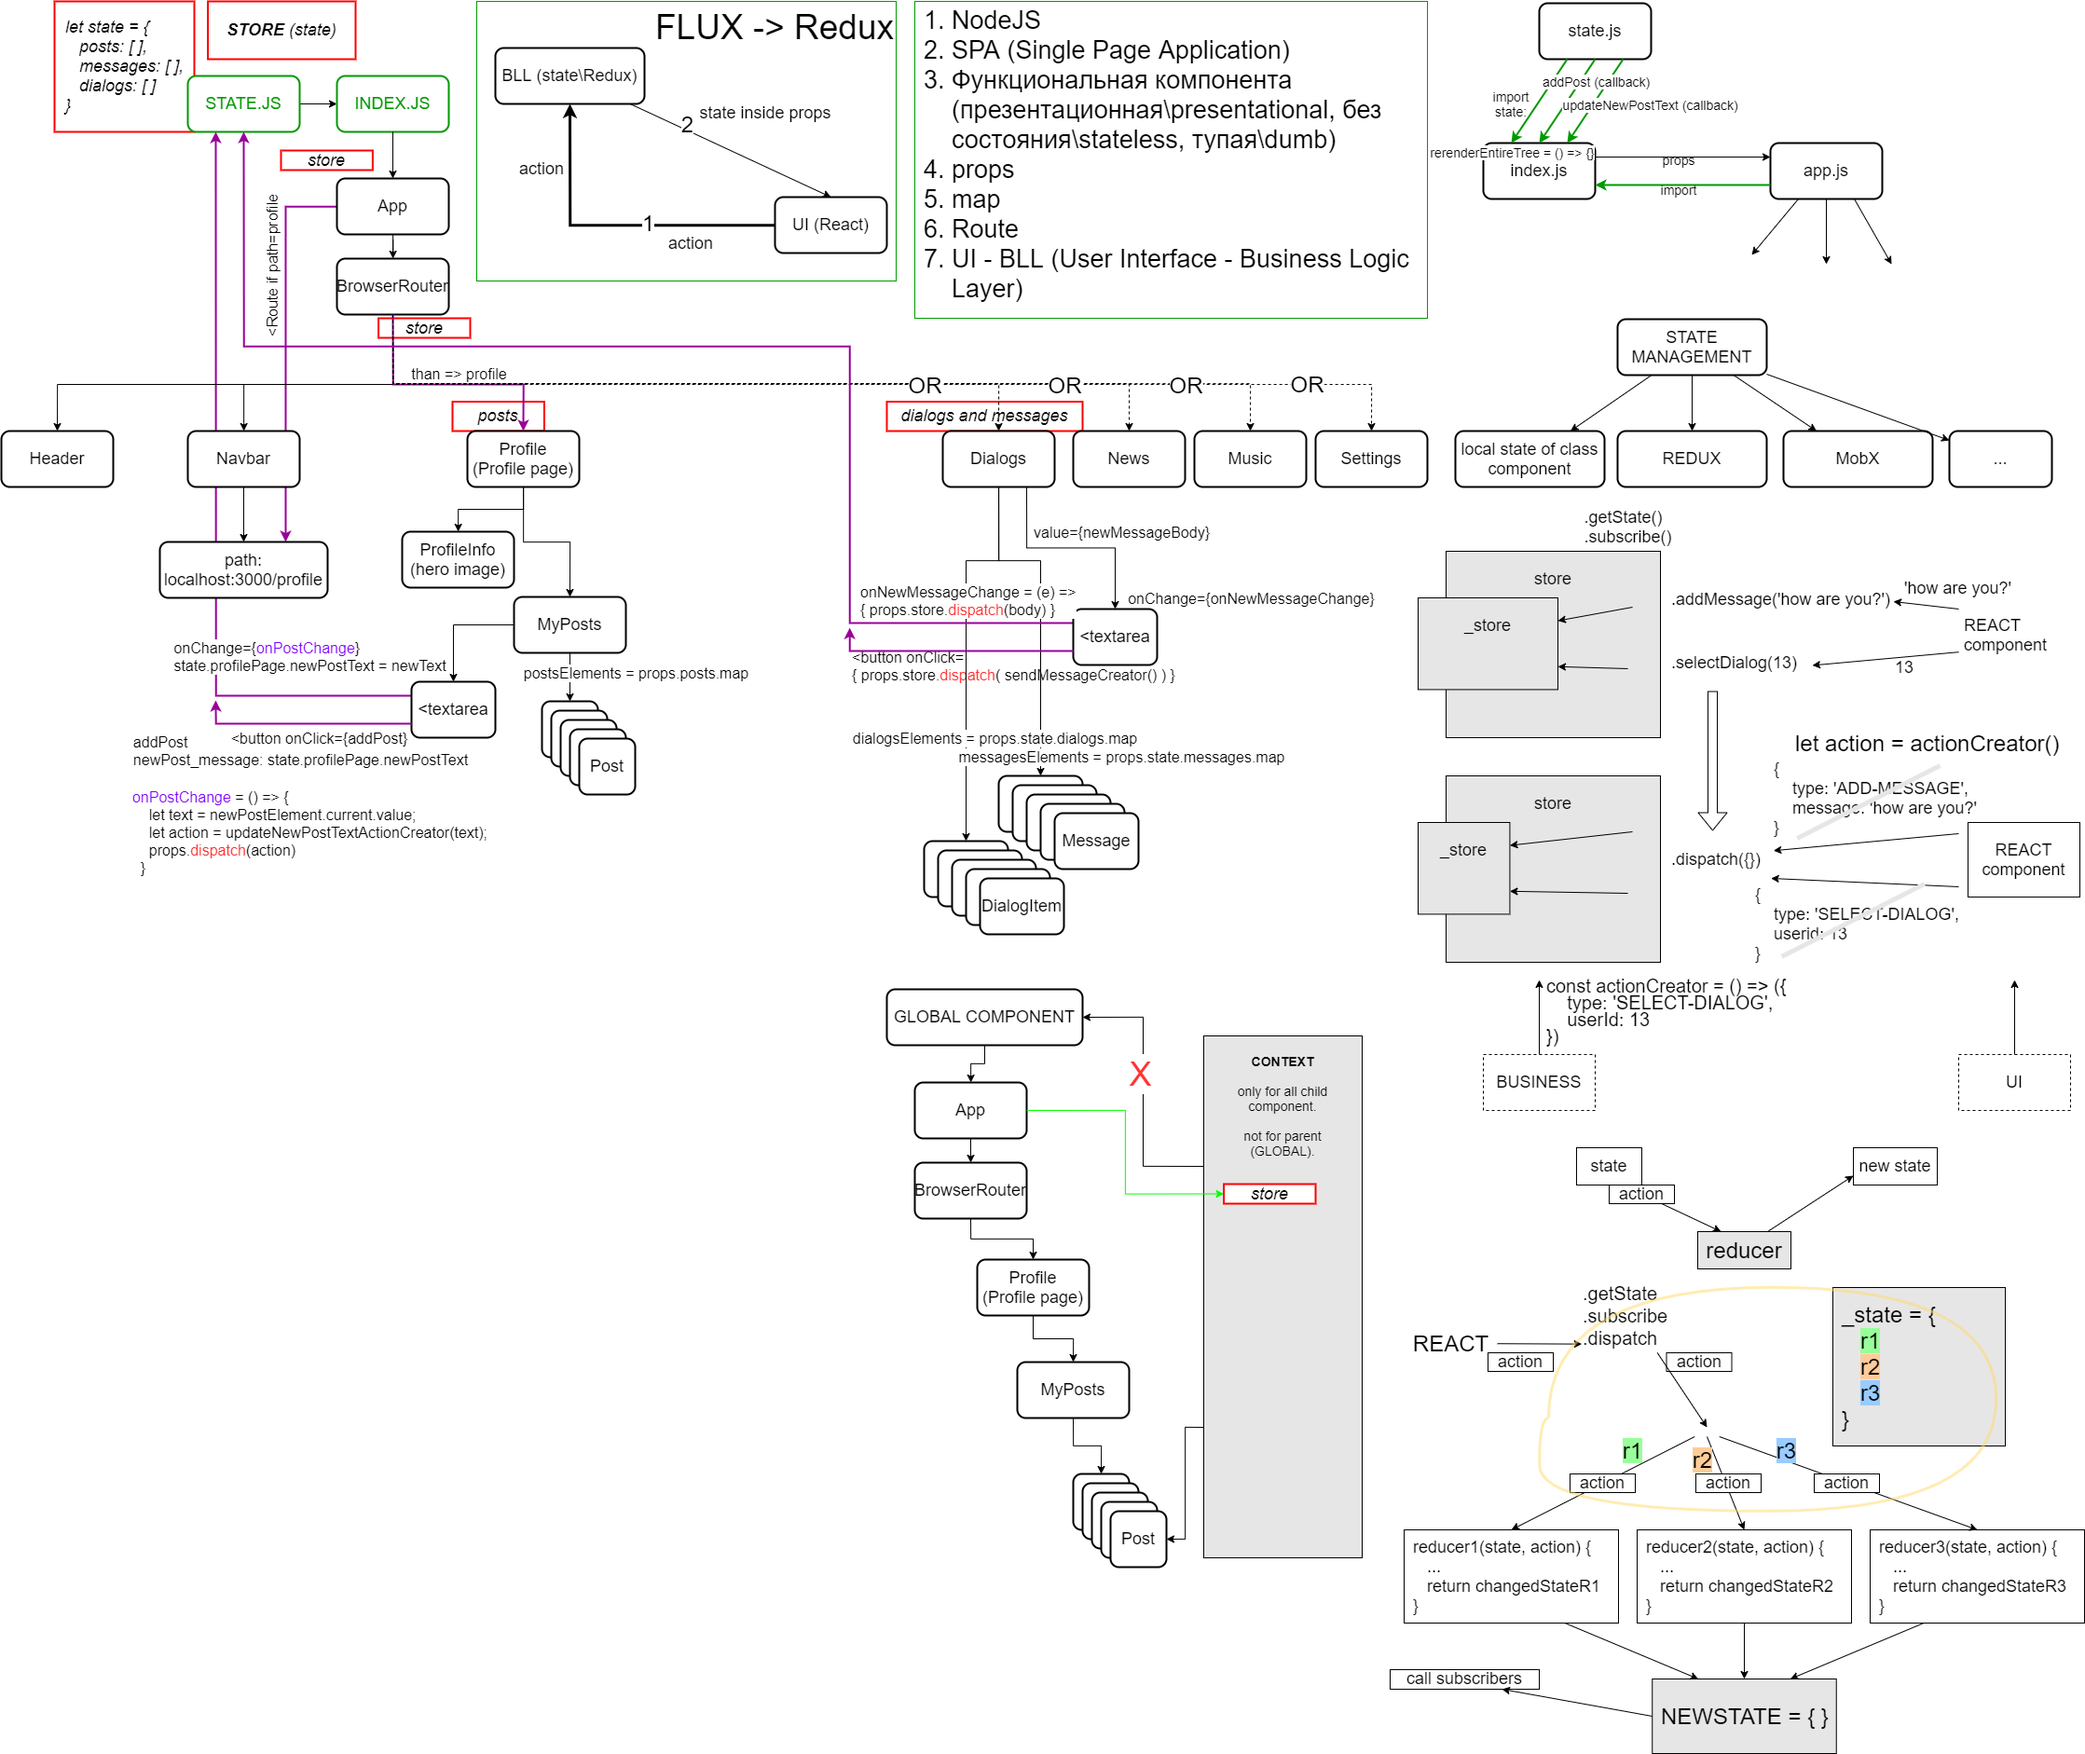
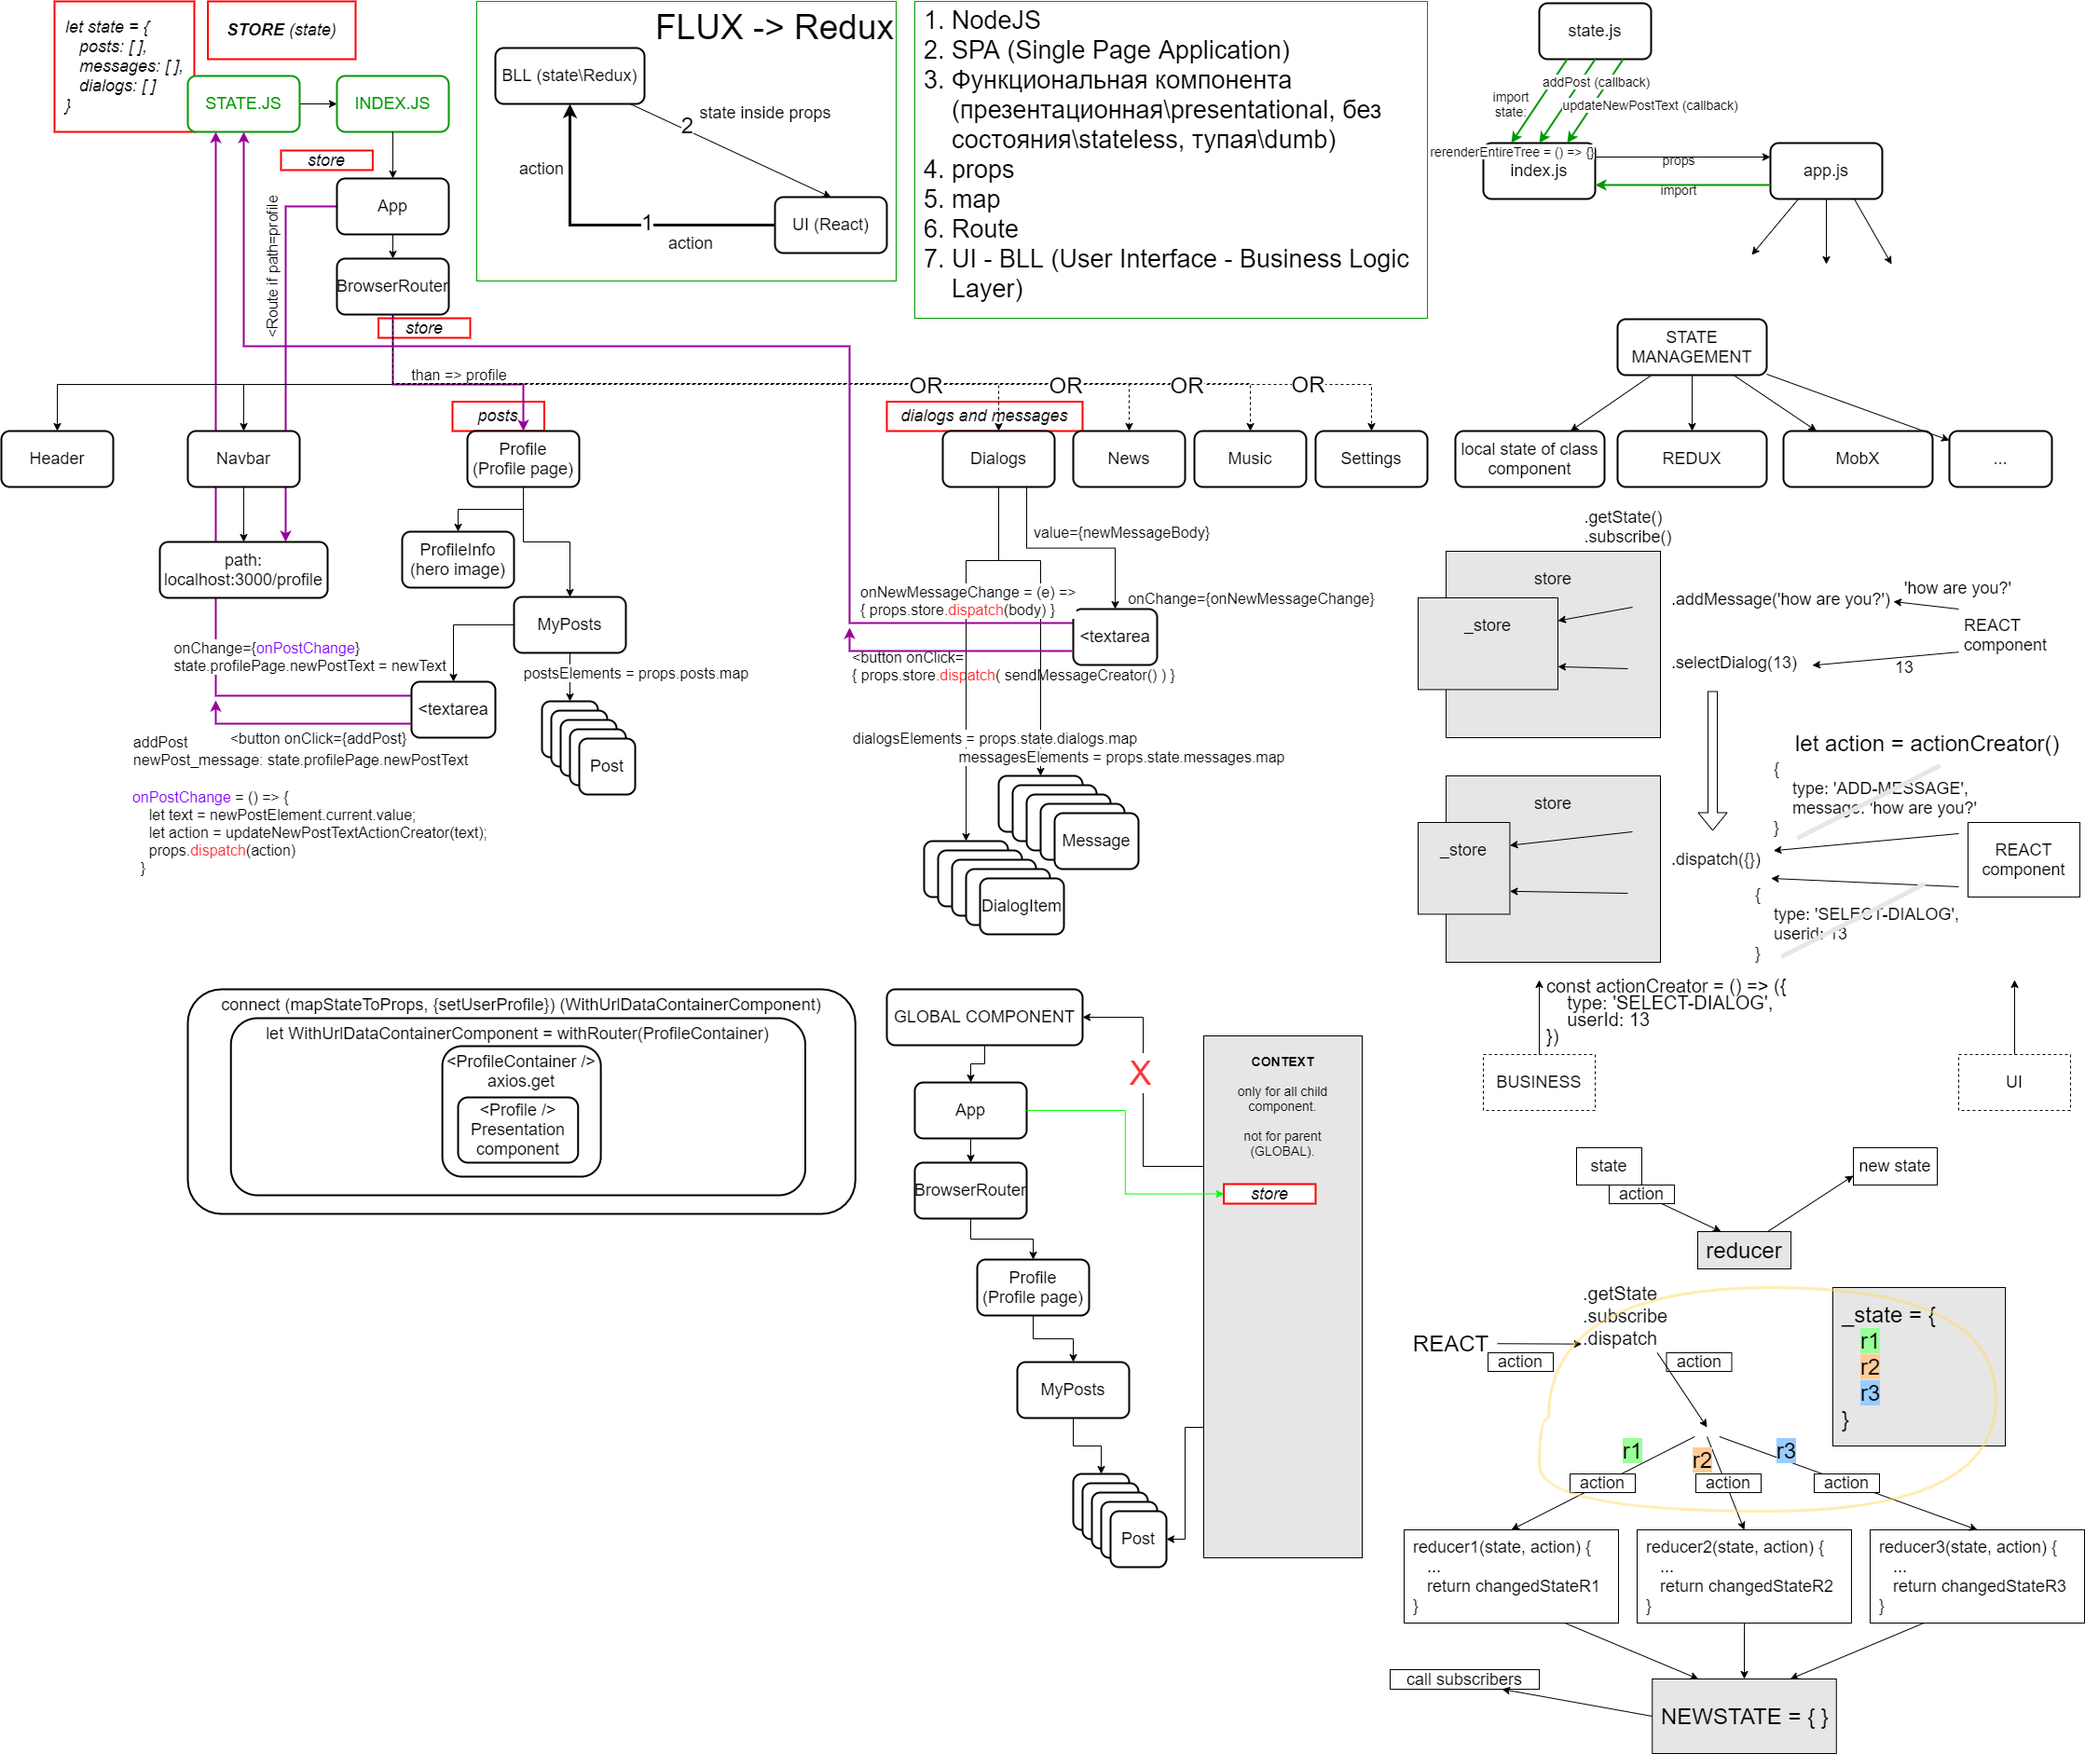
60

Changed region(s): [[0.0925, 0.5547, 0.401, 0.7088], [0.1234, 0.4006, 0.1542, 0.4315]]

diff --git a/src/components/Profile/ProfileContainer.jsx b/src/components/Profile/ProfileContainer.jsx
@@ -3,12 +3,18 @@ import Profile from "./Profile";
 import axios from "axios";
 import {connect} from "react-redux";
 import {setUserProfile} from "../../redux/profile-reducer";
+import {withRouter} from "react-router";
 
 class ProfileContainer extends React.Component {
 
   componentDidMount() {
-    // axios.get(`https://social-network.samuraijs.com/api/1.0/profile/${this.props.currentPage}&count=${this.props.pageSize}`)
-    axios.get(`https://social-network.samuraijs.com/api/1.0/profile/2`)
+    let userId = this.props.match.params.userId;
+    if (!userId) {
+      userId = 2;
+    }
+    // axios.get(`https://social-network.samuraijs.com/api/1.0/profile/2`)
+    // axios.get(`https://social-network.samuraijs.com/api/1.0/profile/${userId}`)
+    axios.get(`https://social-network.samuraijs.com/api/1.0/profile/` + userId)
       .then(response => {
         this.props.setUserProfile(response.data);
       })
@@ -26,4 +32,6 @@ let mapStateToProps = (state) => ({
   profile: state.profilePage.profile
 })
 
-export default connect(mapStateToProps, {setUserProfile})(ProfileContainer);
+let WithUrlDataContainerComponent = withRouter(ProfileContainer);
+
+export default connect(mapStateToProps, {setUserProfile})(WithUrlDataContainerComponent);

diff --git a/src/components/Users/Users.jsx b/src/components/Users/Users.jsx
@@ -23,7 +23,7 @@ let Users = (props) => {
     </div>
     {
       props.users.map(u => <div key={u.id}>
-
+        {console.log(u)}
         <span>
           <div>
             <NavLink to={'/profile/' + u.id}>
@@ -45,8 +45,9 @@ let Users = (props) => {
 
         <span>
           <span>
-            <div>{u.name}</div>
-            <div>{u.status}</div>
+            <div>userId: {u.id}</div>
+            <div>name: {u.name}</div>
+            <div>status: {u.status}</div>
           </span>
           <span>
             <div>{'u.location.country'}</div>

diff --git a/src/App.js b/src/App.js
@@ -21,7 +21,10 @@ const App = (props) => {
         <Navbar/>
         <div className='app-wrapper-content'>
           {/*<Route - check url 'path', if the same, than redraw (render) dest. component (<Profile/>)*/}
-          <Route path='/profile'
+
+          {/*<Route path='/profile/:userId'*/}
+          {/* question mark after parameter - that this parameter is not important. */}
+          <Route path='/profile/:userId?'
                  render={() => <ProfileContainer/>}/>
 
           <Route path='/dialogs'

diff --git a/src/components/Profile/Profile.jsx b/src/components/Profile/Profile.jsx
@@ -7,13 +7,6 @@ const Profile = (props) => {
     <div>
       <ProfileInfo profile={props.profile}/>
       <MyPostsContainer
-        /*
-      <MyPostsContainer store={props.store}
-      */
-        propsProperties="The My desk !!!"
-        // posts={props.profilePage.posts}
-        // newPostText={props.profilePage.newPostText}
-        // dispatch={props.dispatch}
       />
     </div>
   );
